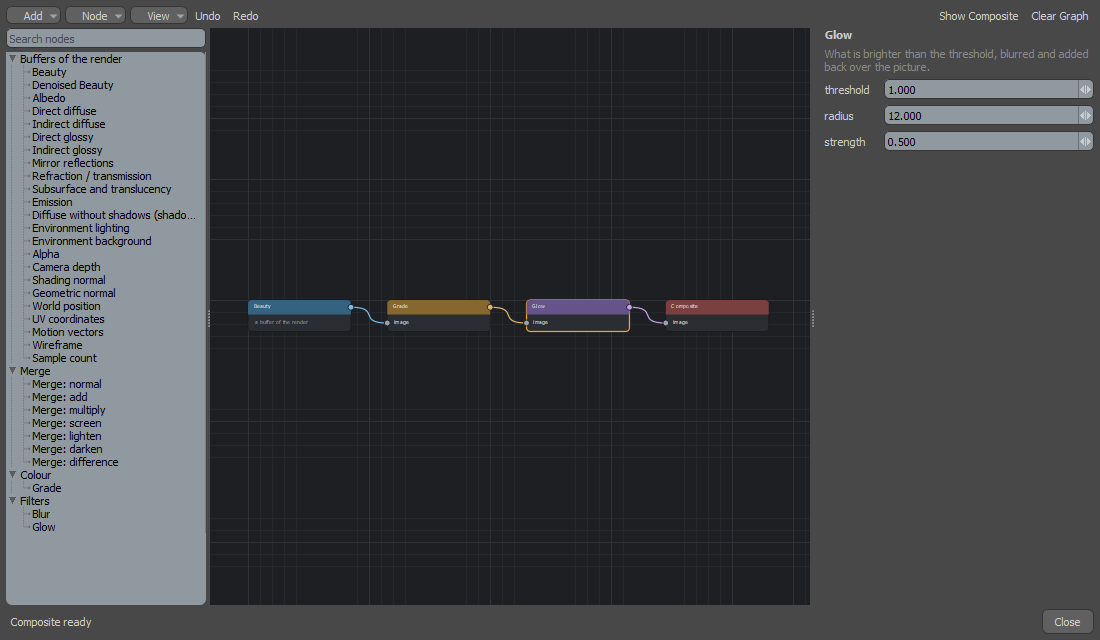
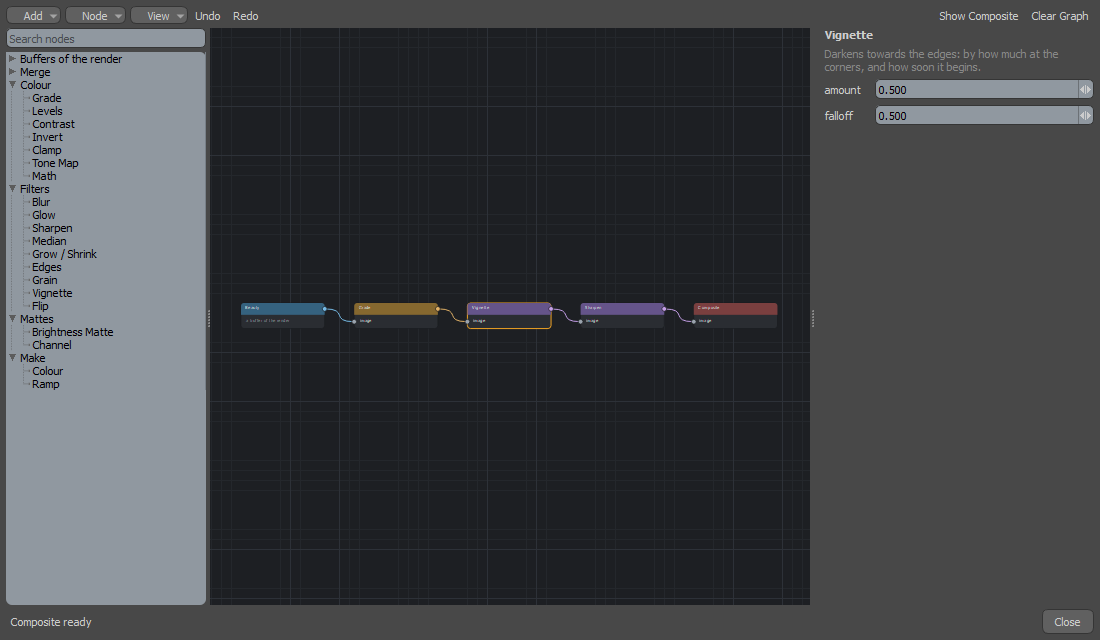
Docs: the compositor's picture shows the new nodes

Changed region(s): [[0.0, 0.0938, 0.1855, 0.8438], [0.7418, 0.0312, 1.0, 0.25], [0.2164, 0.4688, 0.7109, 0.5312]]

diff --git a/tools/probe_compositor_picture.py b/tools/probe_compositor_picture.py
@@ -1,0 +1,91 @@
+# python
+"""Isolated GUI test: a picture of the compositor's editor for the documents.
+
+Two balls are rendered with MoonRay. The editor is opened and a graph made in it as it is made by hand, each node added
+with the one before it selected: the beauty graded, given a vignette and sharpened. The library's long list of buffers
+is folded so that the nodes there are to add are seen, the vignette is selected so that its settings show, and the
+editor is pictured."""
+import json
+import os
+import pathlib
+import traceback
+import lx
+from PySide2 import QtCore, QtWidgets
+
+root = pathlib.Path(r'C:\Users\Raphael Tobar\MoonRayForModo')
+out = root / 'test-results/compositor-picture'
+out.mkdir(parents=True, exist_ok=True)
+result = {}
+held = {}
+
+
+def panel_widget():
+    from moonray_modo.panel import Panel
+    return next(w for w in QtWidgets.QApplication.allWidgets() if isinstance(w, Panel))
+
+
+def render():
+    try:
+        panel = panel_widget()
+        panel.preferences.set('runtime', str(root / os.environ.get('MOONRAY_PROBE_RUNTIME', 'runtime/steady-04-drain')))
+        panel.preview_engine.setCurrentIndex(panel.preview_engine.findData('moonray'))
+        panel.start.click()
+    except Exception:
+        result['error'] = traceback.format_exc()
+    QtCore.QTimer.singleShot(45000, build)
+
+
+def build():
+    try:
+        panel = panel_widget()
+        panel.open_compositor()
+        from moonray_modo import compositor_editor
+        editor = held['editor'] = compositor_editor._open.get('editor')
+        last = 'beauty'
+        for kind in ('grade', 'vignette', 'sharpen'):
+            editor.canvas.clearSelection()
+            editor.items[last].setSelected(True)
+            editor.add(kind)
+            last = editor.selected()
+            held[kind] = last
+        tree = editor.node_tree
+        for index in range(tree.topLevelItemCount()):
+            group = tree.topLevelItem(index)
+            group.setExpanded(group.text(0) not in ('Buffers of the render', 'Merge'))
+        editor.canvas.clearSelection()
+        editor.items[held['vignette']].setSelected(True)
+        editor.show_composite()
+        # The whole graph in view.
+        editor.frame(everything=True)
+        result['nodes'] = sorted(node['type'] for node in editor.graph['nodes'].values())
+    except Exception:
+        result['error'] = traceback.format_exc()
+    QtCore.QTimer.singleShot(6000, shoot)
+
+
+def shoot():
+    try:
+        editor = held['editor']
+        editor.grab().save(str(out / 'editor.png'))
+        panel_widget().preview.grab().save(str(out / 'composite.png'))
+        result['status'] = panel_widget().status.text()
+        result['buffer'] = panel_widget().buffer.currentData()
+    except Exception:
+        result['error'] = traceback.format_exc()
+    (out / 'report.json').write_text(json.dumps(result, indent=1, default=str))
+    lx.eval('!app.quit')
+
+
+try:
+    for x in (-.6, .6):
+        lx.eval('select.typeFrom item')
+        lx.eval('item.create mesh')
+        lx.eval('tool.set prim.sphere on')
+        lx.eval('tool.attr prim.sphere cenX %s' % x)
+        lx.eval('tool.apply')
+        lx.eval('tool.set prim.sphere off')
+    lx.eval('moonray.render.samples 3')
+    lx.eval('moonray.open')
+except Exception:
+    result['error'] = traceback.format_exc()
+QtCore.QTimer.singleShot(8000, render)

diff --git a/docs/WHATS_NEXT.md b/docs/WHATS_NEXT.md
@@ -59,7 +59,7 @@ Built since 0.3.51.3 and not released yet. Items marked *(0.4 runtime)* need the
 - Not yet: compositing during a render, Cryptomatte mattes, MoonLightIPR renders.
 
 ![The compositor](images/compositor-editor.png)
-*Nodes on the left, the graph, and the selected node's settings.*
+*The nodes to add on the left, a graph of Grade, Vignette and Sharpen, and the selected node's settings.*
 
 ## Rendering with MoonRay
 

diff --git a/README.md b/README.md
@@ -44,7 +44,7 @@ Some of these need a newer MoonRay, so 0.4 brings a new runtime ZIP.
 *MoonLightIPR chosen, RT On.*
 
 ![The compositor](docs/images/compositor-editor.png)
-*The compositor: the beauty graded, given a glow, and sent to the Composite buffer.*
+*The compositor: the beauty graded, given a vignette and sharpened, with the nodes to add listed on the left.*
 
 ## Released in 0.3.51
 
